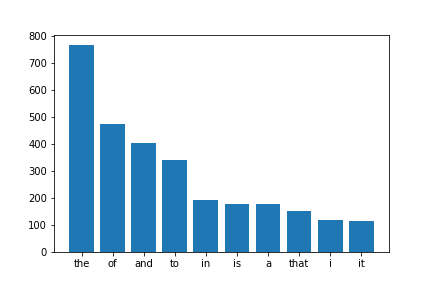
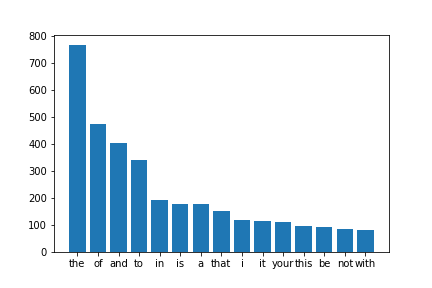
function sorts and converts to dictionary

Changed region(s): [[0.1505, 0.1562, 0.8727, 0.9375], [0.4514, 0.9062, 0.5718, 0.9375]]

diff --git a/main.py b/main.py
@@ -99,12 +99,34 @@ items.sort()
 items.reverse()   
 items = [(k, v) for v, k in items]
 
+def valueSelection(dictionary, length): # length is length of highest value vector
+    
+    # Test input
+    lengthDict = len(dictionary)
+    if length > lengthDict:
+        return print("length is longer than dictionary length");
+    else:
+        d = dictionary
+        items = [(v, k) for k, v in d.items()]
+        items.sort()
+        items.reverse()   
+        itemsOut = [(k, v) for v, k in items]
+    
+        highest = itemsOut[0:length]
+        dd = dict(highest)
+        wanted_keys = dd.keys()
+        dictshow = dict((k, d[k]) for k in wanted_keys if k in d)
+
+        return dictshow;
+    
+dictshow = valueSelection(dictionary = dict1, length = 15)
+
 # Select highest ones to show
-allhighest = items[0:10]
-dd = dict(allhighest)
-wanted_keys = dd.keys() # The keys you want
-longdict = dict1
-dictshow = dict((k, longdict[k]) for k in wanted_keys if k in longdict)
+#allhighest = items[0:10]
+#dd = dict(allhighest)
+#wanted_keys = dd.keys() # The keys you want
+#longdict = dict1
+#dictshow = dict((k, longdict[k]) for k in wanted_keys if k in longdict)
 
 # Plot
 n = range(len(dictshow))
